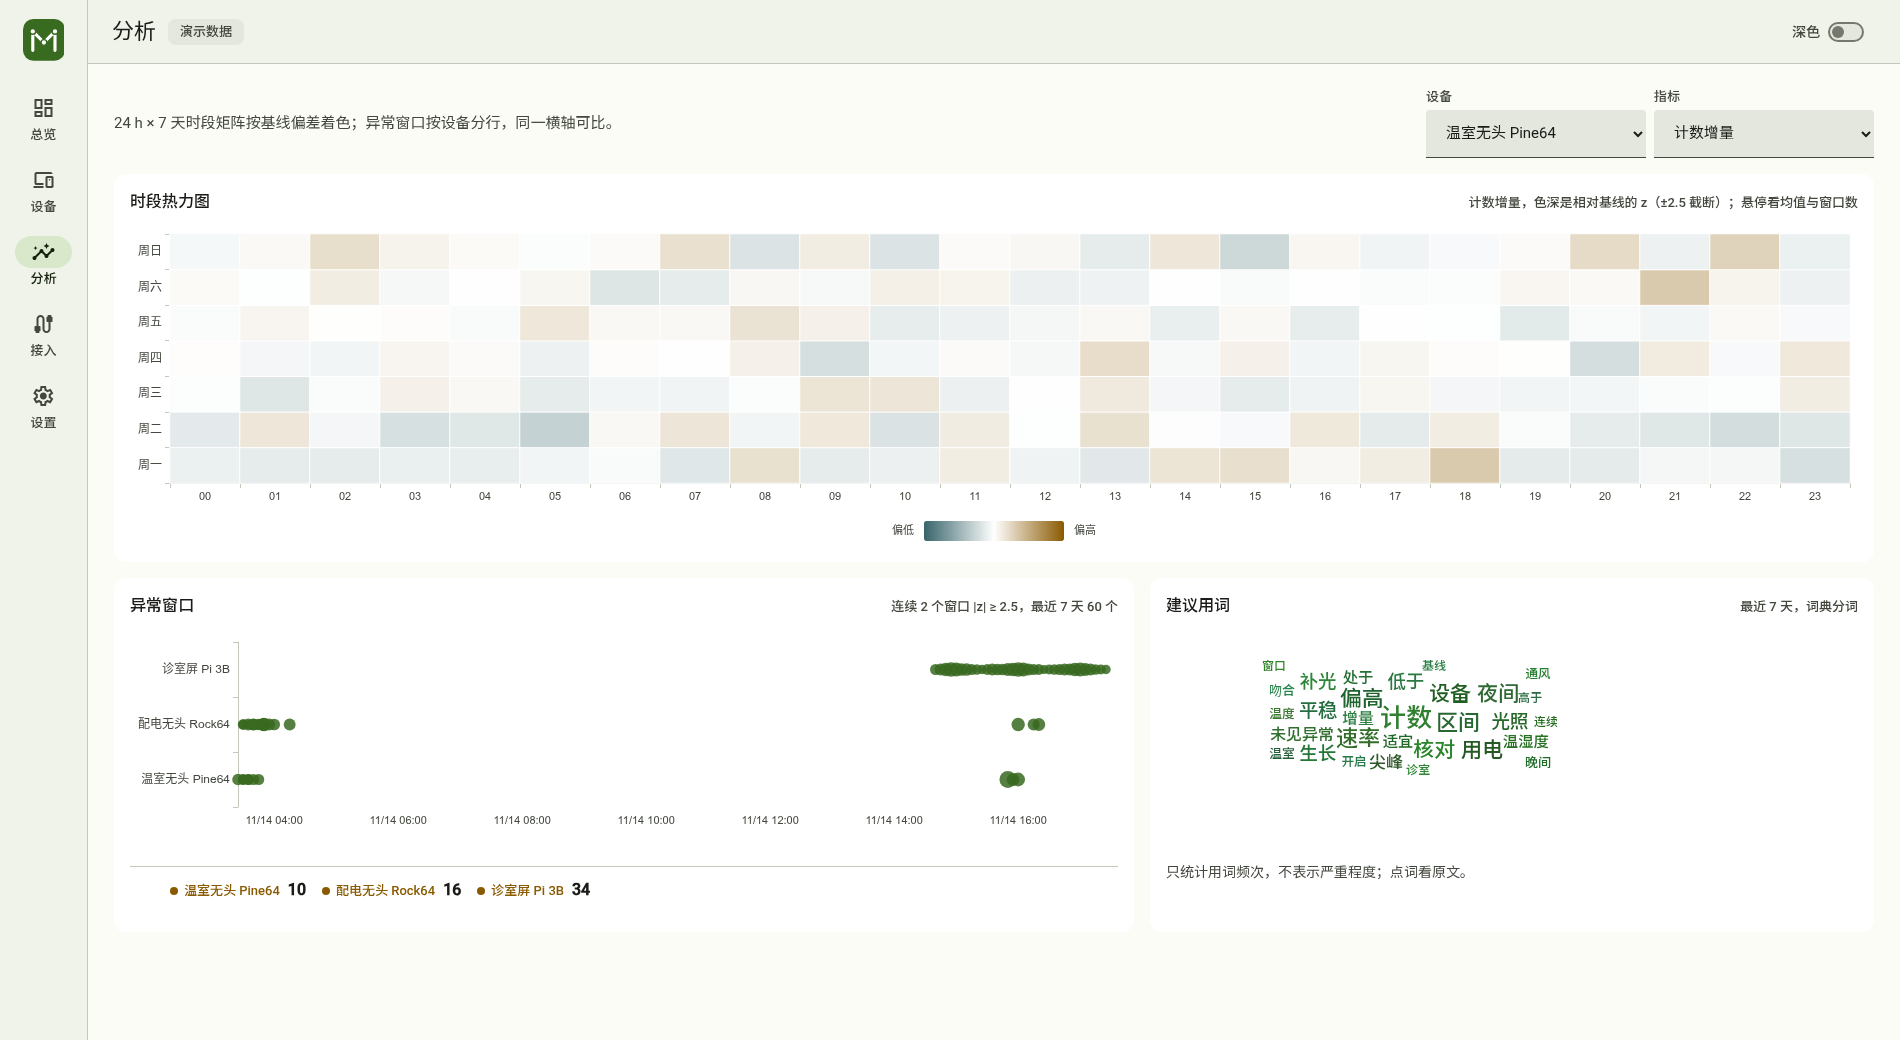
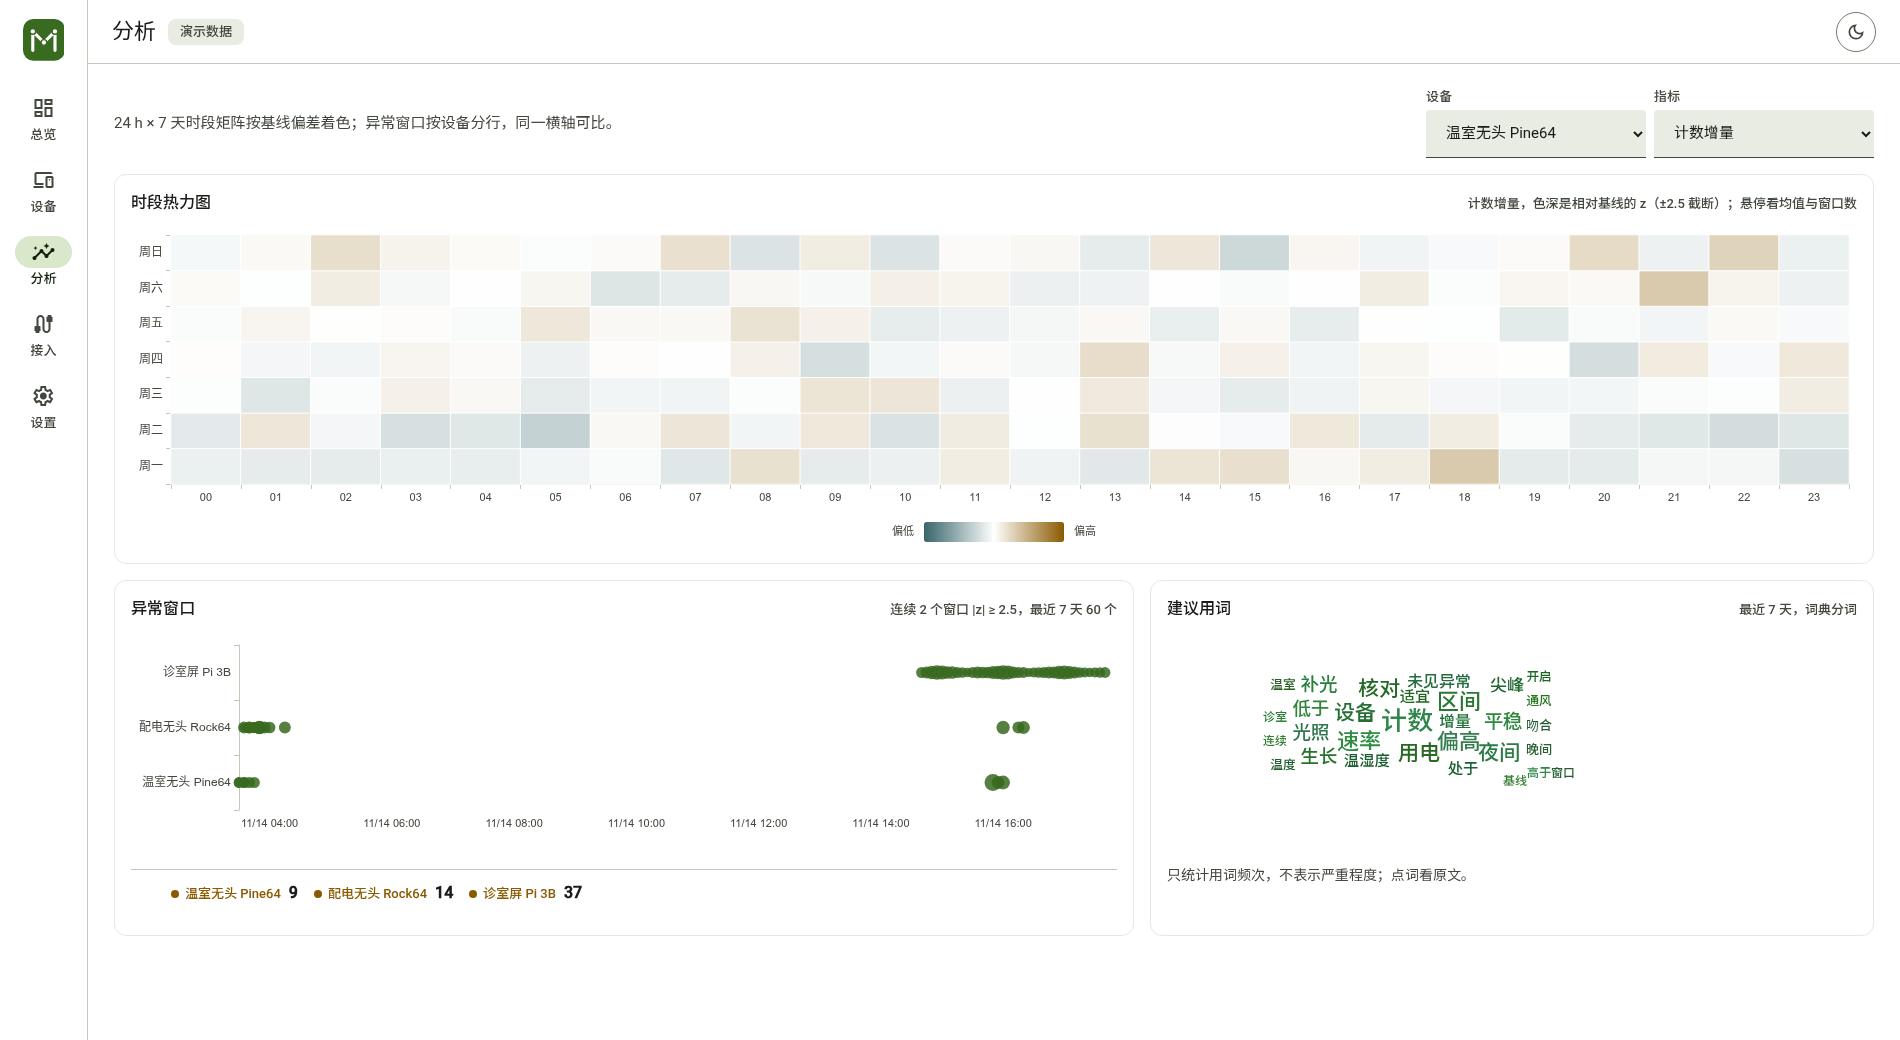
fix(web): 亮色底改纯白，主题切换换回图标按钮
- 亮色 surface 从 #fbfcf6（带绿调）改成 #ffffff；rail 与顶栏也同白，
  靠 1px 分隔线划区；卡片白底 + #e6e9e0 细描边（原来靠色阶分层，
  白底白卡会糊在一起）
- 状态条、KPI 条同步加描边
- 主题切换回到图标按钮（M3 outlined icon button）：亮色显月亮、暗色显太阳，
  40px 圆形带 1px 描边，标题/aria-label 说明动作；smoke 仍点 .theme-toggle
- 「最近建议」行距压 1px，卡片加描边后不再溢出 3px

diff --git a/web/src/styles/m3.css b/web/src/styles/m3.css
@@ -25,18 +25,18 @@
   --md-error-container: #ffdad6;
   --md-on-error-container: #410002;
 
-  /* 面：页面用 surface，卡片用容器级（靠色阶分层，不靠阴影） */
-  --md-surface: #fbfcf6;
+  /* 面：页面纯白，卡片同白靠细描边分层；外壳（rail/顶栏）用淡色容器区分 */
+  --md-surface: #ffffff;
   --md-on-surface: #1a1c18;
   --md-surface-tint: var(--md-primary);
   --md-surface-dim: #dcdfd4;
   --md-surface-bright: #ffffff;
   --md-surface-container-lowest: #ffffff;
   --md-surface-container-low: #ffffff;
-  --md-surface-container: #f0f3ea;
-  --md-surface-container-high: #e9ece3;
-  --md-surface-container-highest: #e3e7dd;
-  --md-surface-variant: #e3e7dd;
+  --md-surface-container: #f5f7f0;
+  --md-surface-container-high: #eff2e9;
+  --md-surface-container-highest: #e9ece2;
+  --md-surface-variant: #e9ece2;
   --md-on-surface-variant: #43483e;
   --md-outline: #74796d;
   --md-outline-variant: #c3c8bb;
@@ -45,9 +45,9 @@
   --md-scrim: #000000;
   --md-shadow: #000000;
 
-  /* 组件别名：历史命名，映射到真实角色，新代码直接用上面的 */
-  --md-card-bg: var(--md-surface-container-low);
-  --md-card-border: var(--md-outline-variant);
+  /* 组件别名：卡片纯白，靠 1px 描边和白色页面分开 */
+  --md-card-bg: #ffffff;
+  --md-card-border: #e6e9e0;
 
   /* ---- 严重度（只有异常才饱和） ---- */
   --md-ok: #386a20;
@@ -134,8 +134,9 @@
   --rail-w: 88px;
   --appbar-h: 64px;
   --content-max: 1760px;
-  --appbar-bg: var(--md-surface-container);
-  --rail-bg: var(--md-surface-container);
+  /* 外壳与页面同白，靠 1px 分隔线划区；暗色下外壳比纯黑略亮一层 */
+  --appbar-bg: var(--md-surface);
+  --rail-bg: var(--md-surface);
 }
 
 [data-theme='dark'] {
@@ -193,6 +194,11 @@
   --md-chart-6: #b8c78a;
   --md-chart-cool: var(--md-tertiary);
   --md-chart-warm: var(--md-notice);
+
+  --md-card-bg: #141414;
+  --md-card-border: transparent;
+  --appbar-bg: var(--md-surface-container);
+  --rail-bg: var(--md-surface-container);
 
   --md-elev-1: 0 1px 2px rgba(0, 0, 0, 0.6), 0 1px 3px 1px rgba(0, 0, 0, 0.4);
 }
@@ -424,6 +430,7 @@ h3 {
 
 .md-card {
   background: var(--md-card-bg);
+  border: 1px solid var(--md-card-border);
   border-radius: var(--md-shape-md);
   padding: var(--space-4);
 }
@@ -814,54 +821,27 @@ h3 {
 
 /* ---------------------------------------------------------------- 深色开关 */
 
-.theme-switch {
-  display: inline-flex;
-  align-items: center;
-  gap: var(--space-2);
+/* 主题切换：M3 outlined icon button，图标本身就是「切到哪边」 */
+.md-icon-outline {
+  display: inline-grid;
+  place-items: center;
+  width: 40px;
   height: 40px;
-  padding: 0 var(--space-3);
-  border: 0;
+  padding: 0;
+  border: 1px solid var(--md-outline);
   border-radius: var(--md-shape-full);
   background: transparent;
   color: var(--md-on-surface-variant);
-  font: var(--md-label-large);
   cursor: pointer;
-  transition: background-color var(--md-dur-short) var(--md-ease);
-}
-.theme-switch:hover {
-  background: color-mix(in srgb, var(--md-on-surface) 8%, transparent);
-}
-.theme-switch__track {
-  position: relative;
-  width: 36px;
-  height: 20px;
-  border-radius: var(--md-shape-full);
-  border: 2px solid var(--md-outline);
-  background: var(--md-surface-container-highest);
   transition: background-color var(--md-dur-short) var(--md-ease),
-    border-color var(--md-dur-short) var(--md-ease);
+    color var(--md-dur-short) var(--md-ease);
 }
-.theme-switch__thumb {
-  position: absolute;
-  top: 2px;
-  left: 2px;
-  width: 12px;
-  height: 12px;
-  border-radius: 50%;
-  background: var(--md-outline);
-  transition: transform var(--md-dur-short) var(--md-ease),
-    background-color var(--md-dur-short) var(--md-ease);
-}
-.theme-switch[aria-checked='true'] .theme-switch__track {
-  background: var(--md-primary);
-  border-color: var(--md-primary);
-}
-.theme-switch[aria-checked='true'] .theme-switch__thumb {
-  transform: translateX(16px);
-  background: var(--md-on-primary);
-}
-.theme-switch[aria-checked='true'] {
+.md-icon-outline:hover {
+  background: color-mix(in srgb, var(--md-on-surface) 8%, transparent);
   color: var(--md-on-surface);
+}
+.md-icon-outline:active {
+  background: color-mix(in srgb, var(--md-on-surface) 10%, transparent);
 }
 
 /* ---------------------------------------------------------------- 工具 */

diff --git a/web/src/App.vue b/web/src/App.vue
@@ -54,17 +54,13 @@ onMounted(async () => {
         <div class="appbar-actions">
           <slot name="appbar"></slot>
           <button
-            class="theme-switch theme-toggle"
-            role="switch"
-            :aria-checked="theme === 'dark'"
-            aria-label="深色模式"
-            :title="theme === 'dark' ? '切换为亮色' : '切换为深色'"
+            class="md-icon-outline theme-toggle"
+            :aria-label="theme === 'dark' ? '切到亮色' : '切到暗色'"
+            :aria-pressed="theme === 'dark'"
+            :title="theme === 'dark' ? '切到亮色' : '切到暗色'"
             @click="toggleTheme"
           >
-            <span class="theme-switch__label">深色</span>
-            <span class="theme-switch__track" aria-hidden="true">
-              <span class="theme-switch__thumb"></span>
-            </span>
+            <Icon :name="theme === 'dark' ? 'light_mode' : 'dark_mode'" :size="20" />
           </button>
         </div>
       </header>

diff --git a/web/src/components/KpiRow.vue b/web/src/components/KpiRow.vue
@@ -31,7 +31,8 @@ const arrow = (v) => (v > 0 ? '▲' : v < 0 ? '▼' : '—')
 .kpis {
   display: grid;
   grid-template-columns: repeat(auto-fit, minmax(190px, 1fr));
-  background: var(--md-surface-container-low);
+  background: var(--md-card-bg);
+  border: 1px solid var(--md-card-border);
   border-radius: var(--md-shape-md);
   overflow: hidden;
   grid-column: span 12;

diff --git a/web/src/components/StatusBar.vue b/web/src/components/StatusBar.vue
@@ -51,8 +51,9 @@ defineProps({
   align-items: center;
   gap: var(--space-4);
   padding: var(--space-4) var(--space-5);
+  border: 1px solid var(--md-card-border);
   border-radius: var(--md-shape-lg);
-  background: var(--md-surface-container-low);
+  background: var(--md-card-bg);
   grid-column: span 12;
 }
 .status--notice {

diff --git a/web/src/views/Overview.vue b/web/src/views/Overview.vue
@@ -424,7 +424,7 @@ const adviceRows = computed(() => {
   display: flex;
   align-items: flex-start;
   gap: var(--space-2);
-  padding: 4px 0;
+  padding: 3px 0;
 }
 .advice-text {
   display: -webkit-box;
